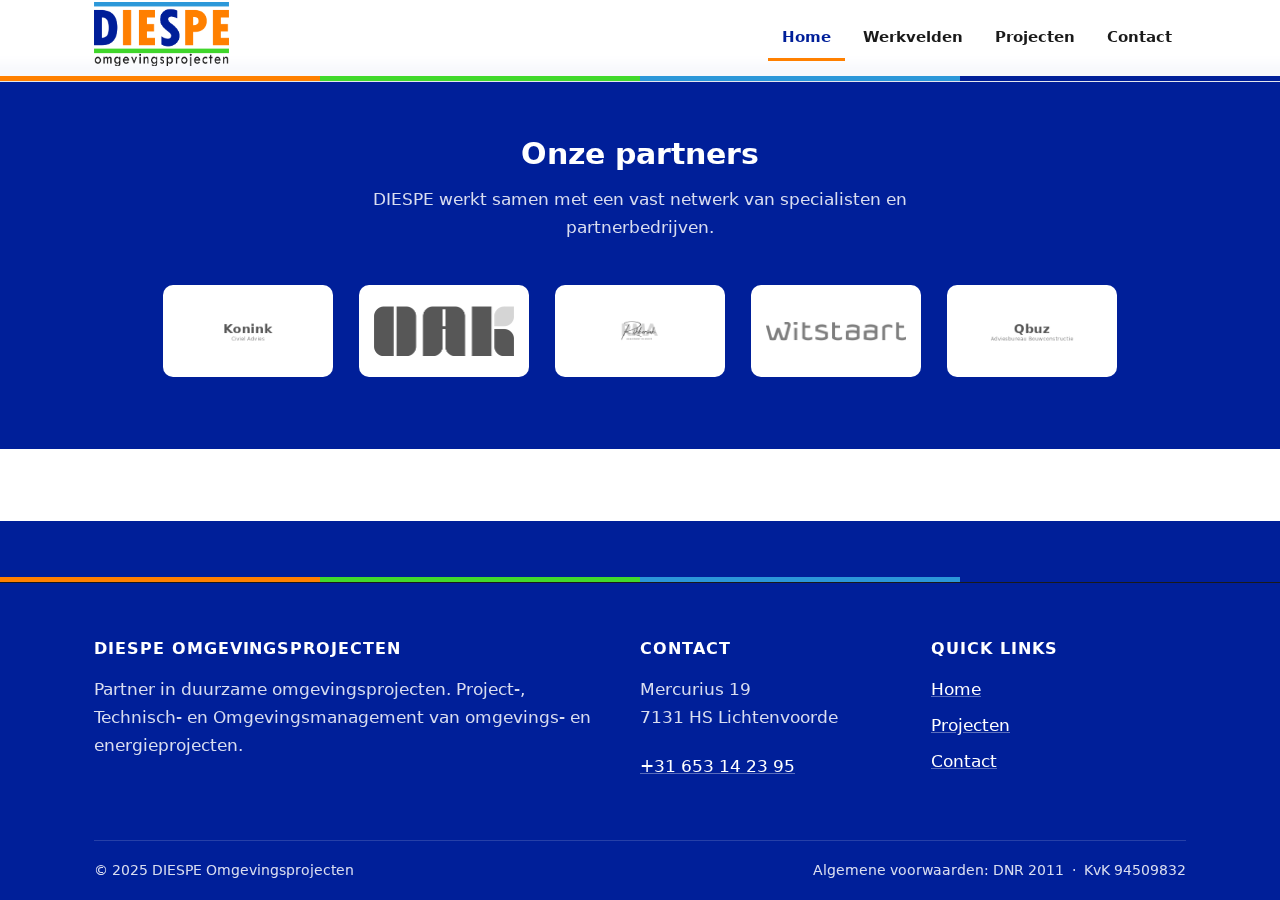
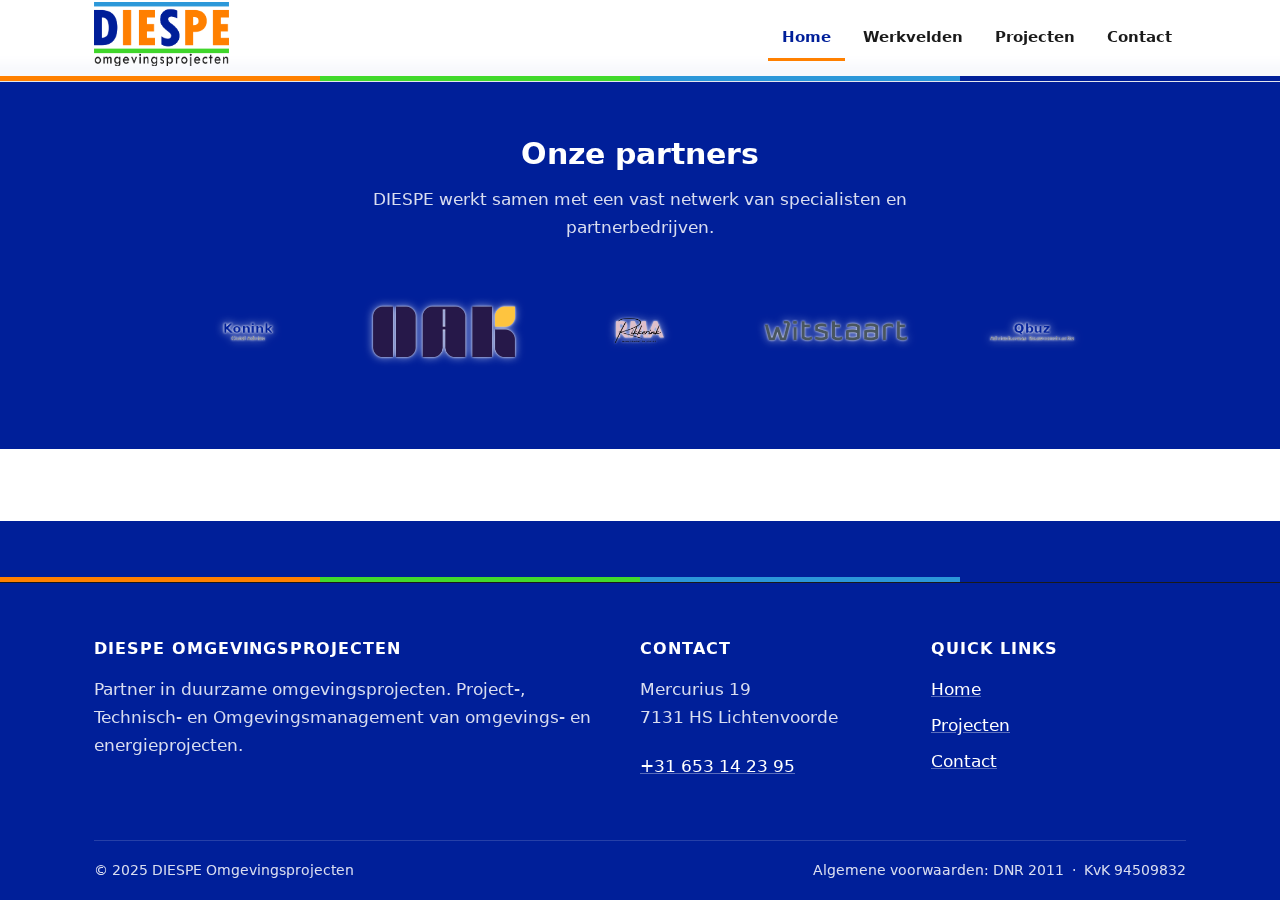
Partnerlogo's met transparante achtergrond direct op de blauwe band

Changed region(s): [[0.125, 0.3111, 0.875, 0.4356]]

diff --git a/preview/style.css b/preview/style.css
@@ -766,26 +766,21 @@ button[type="submit"], .wp-block-search__button, .search-submit { border: 0; cur
 }
 .logo-item {
   flex: 0 1 170px;
-  background: #fff;
-  border: 1px solid rgba(255,255,255,0.25);
-  border-radius: var(--diespe-radius);
-  padding: 18px 14px;
+  background: transparent;
+  border: 0;
+  border-radius: 0;
+  padding: 10px 14px;
   display: flex;
   align-items: center;
   justify-content: center;
   height: 92px;
 }
-a.logo-item:hover { border-color: var(--diespe-orange); }
+a.logo-item:hover { opacity: 0.8; }
 .logo-item img {
   max-width: 100%;
   max-height: 100%;
   object-fit: contain;
-  filter: grayscale(100%);
-  opacity: 0.75;
-  transition: filter 0.2s ease, opacity 0.2s ease;
-}
-.logo-item:hover img {
-  filter: grayscale(0%);
-  opacity: 1;
+  filter: drop-shadow(0 0 1px rgba(255,255,255,0.9)) drop-shadow(0 0 4px rgba(255,255,255,0.55));
+  transition: opacity 0.2s ease;
 }
 .partners-strip .section-title { color: #fff; }

diff --git a/style.css b/style.css
@@ -766,26 +766,21 @@ button[type="submit"], .wp-block-search__button, .search-submit { border: 0; cur
 }
 .logo-item {
   flex: 0 1 170px;
-  background: #fff;
-  border: 1px solid rgba(255,255,255,0.25);
-  border-radius: var(--diespe-radius);
-  padding: 18px 14px;
+  background: transparent;
+  border: 0;
+  border-radius: 0;
+  padding: 10px 14px;
   display: flex;
   align-items: center;
   justify-content: center;
   height: 92px;
 }
-a.logo-item:hover { border-color: var(--diespe-orange); }
+a.logo-item:hover { opacity: 0.8; }
 .logo-item img {
   max-width: 100%;
   max-height: 100%;
   object-fit: contain;
-  filter: grayscale(100%);
-  opacity: 0.75;
-  transition: filter 0.2s ease, opacity 0.2s ease;
-}
-.logo-item:hover img {
-  filter: grayscale(0%);
-  opacity: 1;
+  filter: drop-shadow(0 0 1px rgba(255,255,255,0.9)) drop-shadow(0 0 4px rgba(255,255,255,0.55));
+  transition: opacity 0.2s ease;
 }
 .partners-strip .section-title { color: #fff; }
